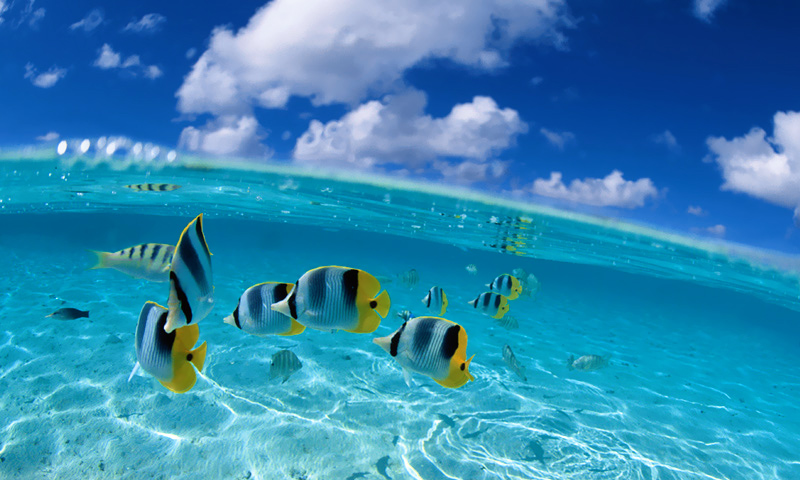
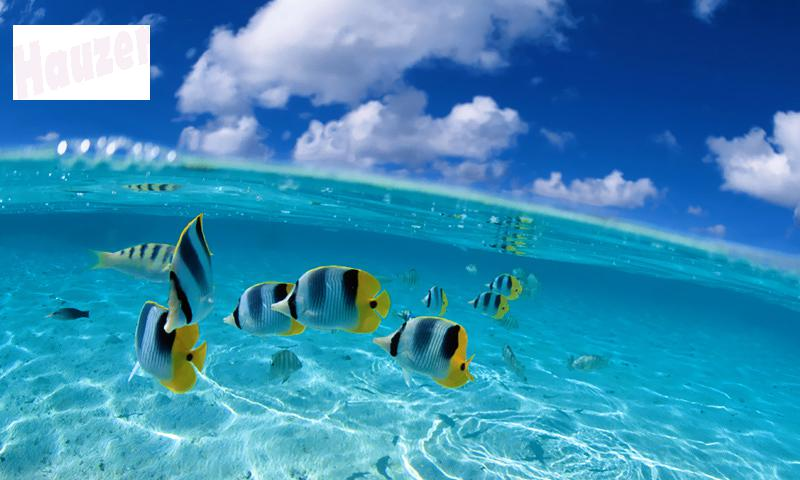
addObgect

diff --git a/assets/css/output-position.css b/assets/css/output-position.css
@@ -1,4 +1,29 @@
-
+.position h1,.position-recent h1{
+    font-size:1.4rem;
+    margin-top:4px;
+    margin-bottom:4px;
+}
+.position p, .position-recent p{
+    font-size:1.1rem;
+    line-height:.8rem;
+}
+.position p:nth-child(2){
+    font-size:1.3rem;
+    color:orange;
+}
+.img-wrapp a, .img-wrapp img {
+    display:block;
+    height: 100%;
+    width: 100%;
+}
+.top-label{
+    position:absolute;
+    top:-7px;
+    left:-7px;
+    width:50px;
+    height:50px;
+    background: url('/assets/img/top-xs.png') no-repeat;
+}
 @media(max-width:370px){
   .img-wrapp{
       width:100% !important;
@@ -95,30 +120,4 @@
         height:100px;
     }
 
-}
-.position h1,.position-recent h1{
-    font-size:1.4rem;
-    margin-top:4px;
-    margin-bottom:4px;
-}
-.position p, .position-recent p{
-    font-size:1.1rem;
-    line-height:.8rem;
-}
-.position p:nth-child(2){
-    font-size:1.3rem;
-  color:orange;
-}
-.img-wrapp a, .img-wrapp img {
-    display:block;
-    height: 100%;
-    width: 100%;
-}
-.top-label{
-    position:absolute;
-    top:-7px;
-    left:-7px;
-    width:50px;
-    height:50px;
-    background: url('/assets/img/top-xs.png') no-repeat;
 }

diff --git a/core/controllers/main.php b/core/controllers/main.php
@@ -48,7 +48,66 @@
 if ($_SERVER['REQUEST_METHOD'] == 'POST'){
     // TODO Обработать данные
 }
-//renderView('actionAdmin');
+function action_addObject(){
+//if(!empty($_POST[''])&&is_dir('catalog/'.$_POST['address'])){
+//    echo 'hello';
+//    move_uploaded_file($_FILES["picture"]["tmp_name"], "catalog/".$_POST['genre']."/".time().".jpg");
+//    $f = fopen('catalog/file_catalog.php', "a+");
+//    fwrite($f,time().".jpg:".$_POST['genre'].":".$_POST['name'].':'.$_POST['author'].':'.$_POST['price']."\n");
+//    fclose($f);
+//}
+//else{
+//    $d = opendir('catalog');
+//    mkdir('catalog/'.$_POST['genre'],0755,true);
+//    $f = fopen('catalog/file_catalog.php', "a+");
+//    fwrite($f,time().".jpg:".$_POST['genre'].":".$_POST['name'].':'.$_POST['author'].':'.$_POST['price']."\n");
+//    fclose($f);
+//    closedir($d);
+//    move_uploaded_file($_FILES["picture"]["tmp_name"], "catalog/".$_POST['genre']."/".time().".jpg");
+//    echo 'sozdano';
+//}
+//$h = file('catalog/file_catalog.php');
+
+//foreach($h as $g){
+//    $e=explode(':', $g);
+////echo  '<p>'.var_dump($e).'</p>';
+//    $img = $e[0];
+//    $genre = $e[1];
+//    $name = $e[2];
+//    $author = $e[3];
+//    $price = $e[4];
+//    echo '<img src = "catalog/'.$genre.'/'.$img.'">';
+//    echo '<p>'.$name.'</p>';
+//    echo '<p>'.$author.'</p>';
+//    echo '<p>'.$price.'</p>';
+    require '/vendor/autoload.php';
+    if ($_SERVER['REQUEST_METHOD'] == 'POST') {
+        $h = $_POST['image']
+        ?>
+       <p><?php $h ?></p>
+
+        <?php
+        $imagine = new Imagine\Gd\Imagine();
+        $size  = new Imagine\Image\Box(250, 170);
+//        $imagine->open("assets/img/$h")->thumbnail($size, 'inset')->save
+//        ("assets/img/kkk_$h");
+//        $info= pathinfo($h);
+//        var_dump($info['dirname']);
+        $watermark = $imagine->open("assets/img/hauzer_2017_watermark.png");
+        $image     = $imagine->open("assets/img/$h");
+        //$size      = $image->getSize();
+        $wSize     = $watermark->getSize();
+
+        $bottomRight = new Imagine\Image\Point($size->getWidth() - $wSize->getWidth(), $size->getHeight() - $wSize->getHeight());
+        $image->paste($watermark, $bottomRight)->save
+    ("assets/img/$h");
+     //var_dump($image->copy()) ;//<img src='/assets/img/lll.png'>
+     //var_dump($image->copy()) ;//<img src='/assets/img/lll.png'>
+    } else {
+      renderView('dev/addObject');
+    }
+}
+?>
 
 
 

diff --git a/core/views/dev/footer.php b/core/views/dev/footer.php
@@ -3,12 +3,12 @@
     <div class="row">
 <div class="">
    Hauzer 2016  &copy;
+
 </div>
     </div>
 </div>
 </div>
 <!--polzunok-->
-
 <script src="https://ajax.googleapis.com/ajax/libs/jquery/2.2.4/jquery.min.js"></script>
 <script src="/assets/js/nav-xs.js"></script>
 <script src="/assets/js/select.js"></script>

diff --git a/core/views/index.php b/core/views/index.php
@@ -1,10 +1,9 @@
-
 <?php
+
 $rent=true;
 $sale=true;
-require 'dev/helper-panel.php'?>
-<?php
-require_once 'dev/filter.php';
+require 'dev/helper-panel.php';
+require_once 'dev/filter.php'
 ?>
     <section class="map hidden-xs">
         <!--            <h1 class="offer">Объекты на карте</h1>-->

diff --git a/core/views/dev/addObject.php b/core/views/dev/addObject.php
@@ -1,0 +1,9 @@
+<?php
+/**
+ * Created by PhpStorm.
+ * User: Max
+ * Date: 21.02.2017
+ * Time: 3:10
+ */
+?>
+<form action="admin/addObject"></form>
